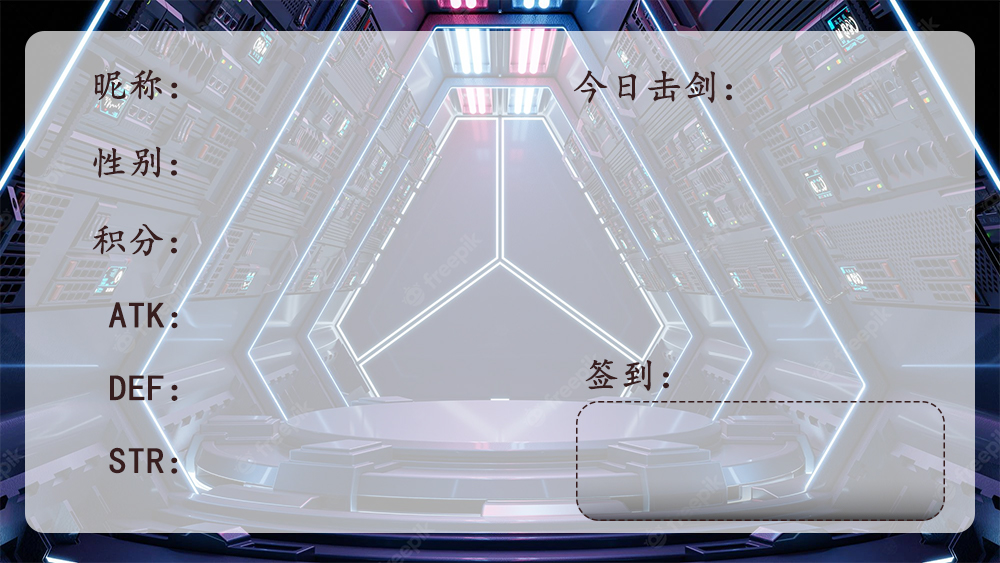
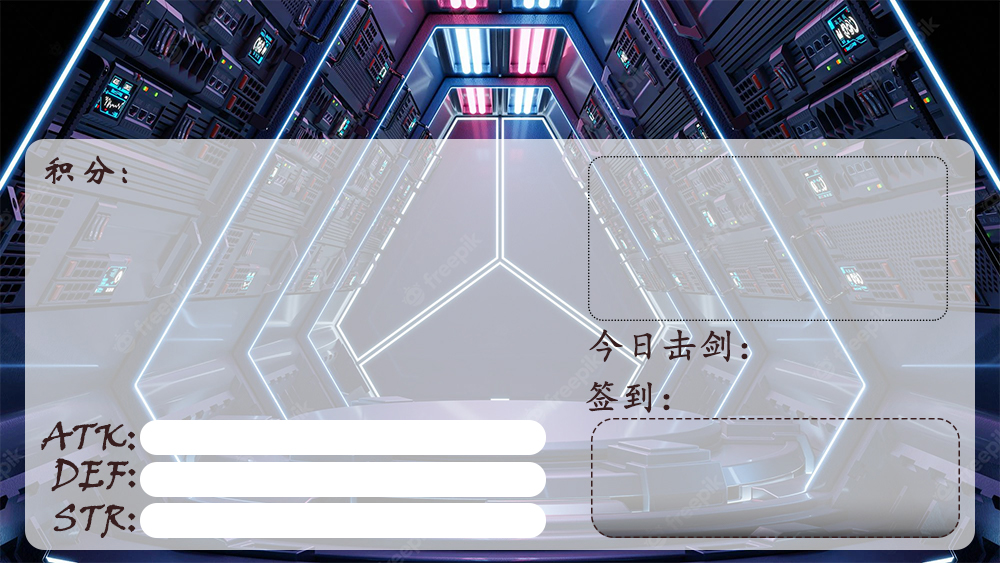
角色卡图形优化

diff --git a/src/main/kotlin/listenerHosts/StatuesListener.kt b/src/main/kotlin/listenerHosts/StatuesListener.kt
@@ -76,19 +76,24 @@ object StatuesListener:ListenerHost {
         val img = ImageIO.read(imgStream)
         imgStream.close()
         val g2d = img.createGraphics()
-//        g2d.fontMetrics
-        g2d.font = Font("楷体",Font.PLAIN,36)
-        g2d.color = Color.BLACK
-//        g2d.setRenderingHint(RenderingHints.KEY_ANTIALIASING,RenderingHints.VALUE_ANTIALIAS_ON)
         g2d.setRenderingHint(RenderingHints.KEY_TEXT_ANTIALIASING,RenderingHints.VALUE_TEXT_ANTIALIAS_ON)
+        // 写玩家昵称
+        val fontForNick = Font("华文新魏", Font.PLAIN,72)
+        val normalFontColor = Color(55,30,30)
+        g2d.font = fontForNick
+        g2d.color= Color.WHITE
+        g2d.drawString(dbMember.nickName,41,72+28)
 
-        g2d.drawString(dbMember.nickName,200,98)
-        val gender = if(dbMember.gender) "男" else "女"
-        g2d.drawString(gender,200,170)
-        g2d.drawString("${dbMember.fraction}",200,250)
-        g2d.drawString("${dbMember.attack}",200,330)
-        g2d.drawString("${dbMember.defence}",200,400)
-        g2d.drawString("${dbMember.strength}",200,480)
+        // 写玩家积分等数字
+        g2d.font = Font("华文隶书",Font.PLAIN,36)
+        g2d.color = normalFontColor
+        var ah = g2d.fontMetrics.ascent
+        g2d.drawString("${dbMember.fraction}",140,154+ah)
+        g2d.drawString("${dbMember.attack}",144,418+ah)
+        g2d.drawString("${dbMember.defence}",144,460+ah)
+        g2d.drawString("${dbMember.strength}",144,502+ah)
+//        g2d.setRenderingHint(RenderingHints.KEY_ANTIALIASING,RenderingHints.VALUE_ANTIALIAS_ON)
+        // 签到信息
         val signIn = transaction {
             val q1 = MemberSignIn.find { MemberSignIns.member eq dbMember.id }
             if (q1.empty()){
@@ -104,6 +109,7 @@ object StatuesListener:ListenerHost {
             }
         }
 
+        // 击剑信息
         val jijianCounter = transaction {
             val q = Jijian.find(JiJians.member eq dbMember.id)
             if (q.empty()){
@@ -118,12 +124,32 @@ object StatuesListener:ListenerHost {
                 }
             }
         }
-        g2d.drawString("$jijianCounter",750,100)
+
+        // 写击剑信息
+        g2d.drawString("$jijianCounter",770,330+ah)
+
+        // 写签到信息
         if (signIn==null){
-            g2d.drawString("今日未签到",600,500)
+            g2d.font = Font("华文行楷",Font.PLAIN,60)
+            g2d.color = Color(201,39,39)
+            ah = g2d.fontMetrics.ascent
+            g2d.drawString("今日未签到",621,452+ah)
         }else{
-            g2d.drawString("$signIn",600,500)
+            g2d.font = Font("Bradley Hand ITC",Font.PLAIN,60)
+            g2d.color = Color(201,39,39)
+            ah = g2d.fontMetrics.ascent
+            g2d.drawString("$signIn",595,446+ah)
         }
+
+        // 写玩家性别
+        val gender = if(dbMember.gender) "♂" else "♀"
+        g2d.font = Font("华文彩云",Font.PLAIN,32)
+        g2d.color = if(dbMember.gender)
+            Color(0,255,255)
+        else
+            Color(255,91,130)
+        ah = g2d.fontMetrics.ascent
+        g2d.drawString(gender,48,105+ah)
         g2d.dispose()
         return img
     }
